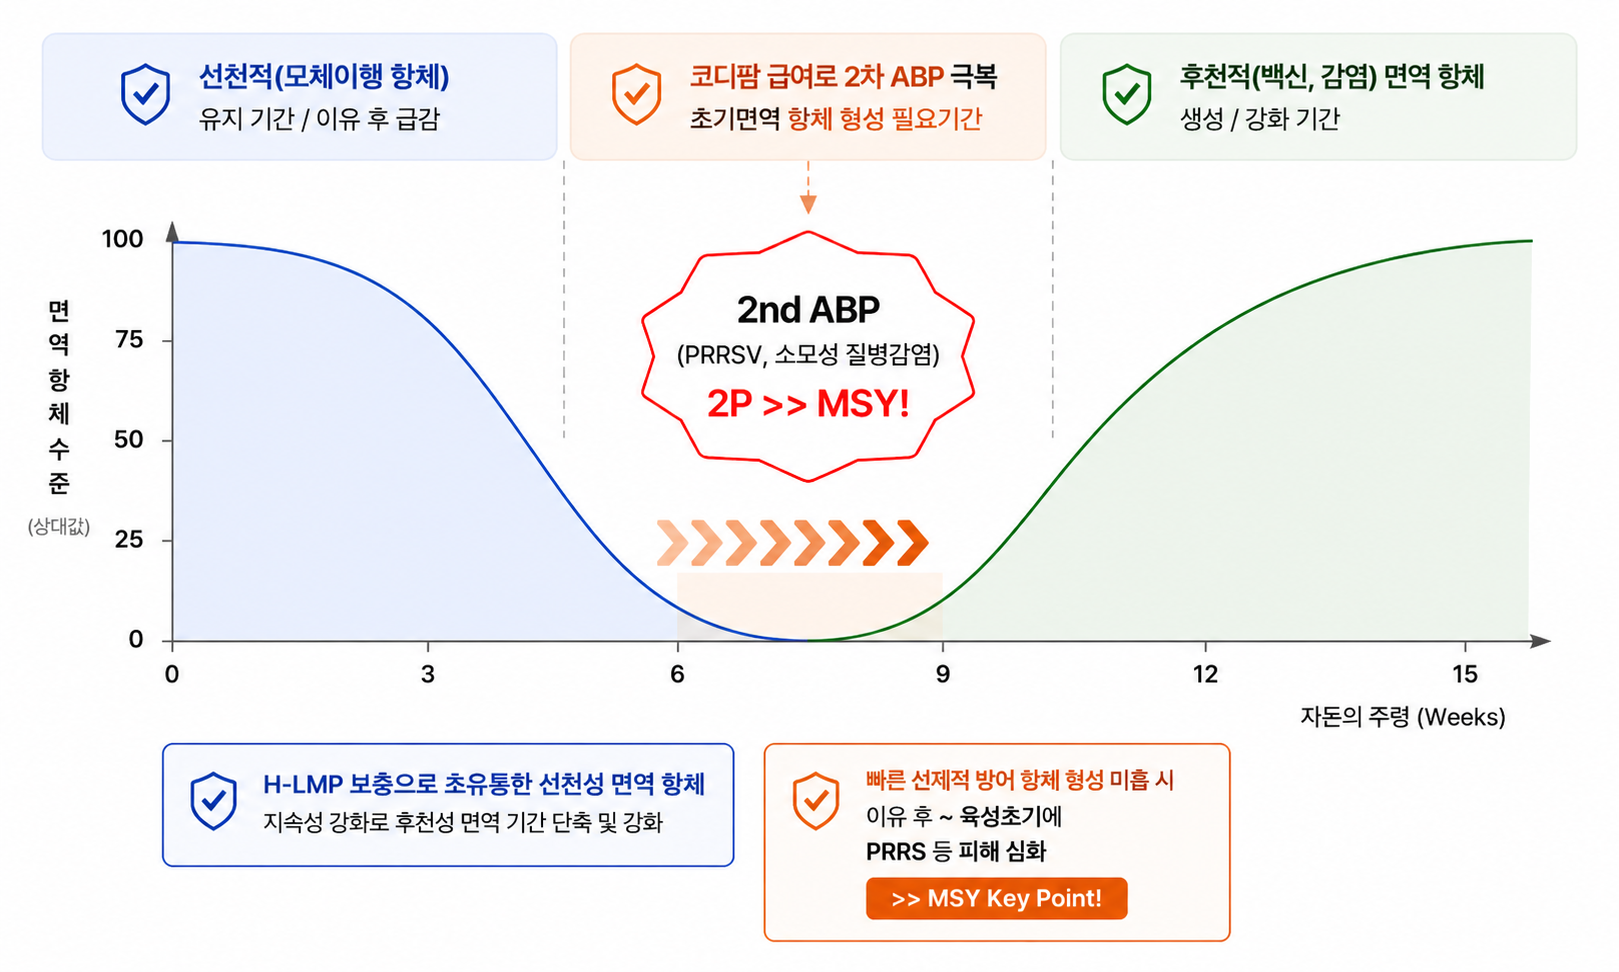
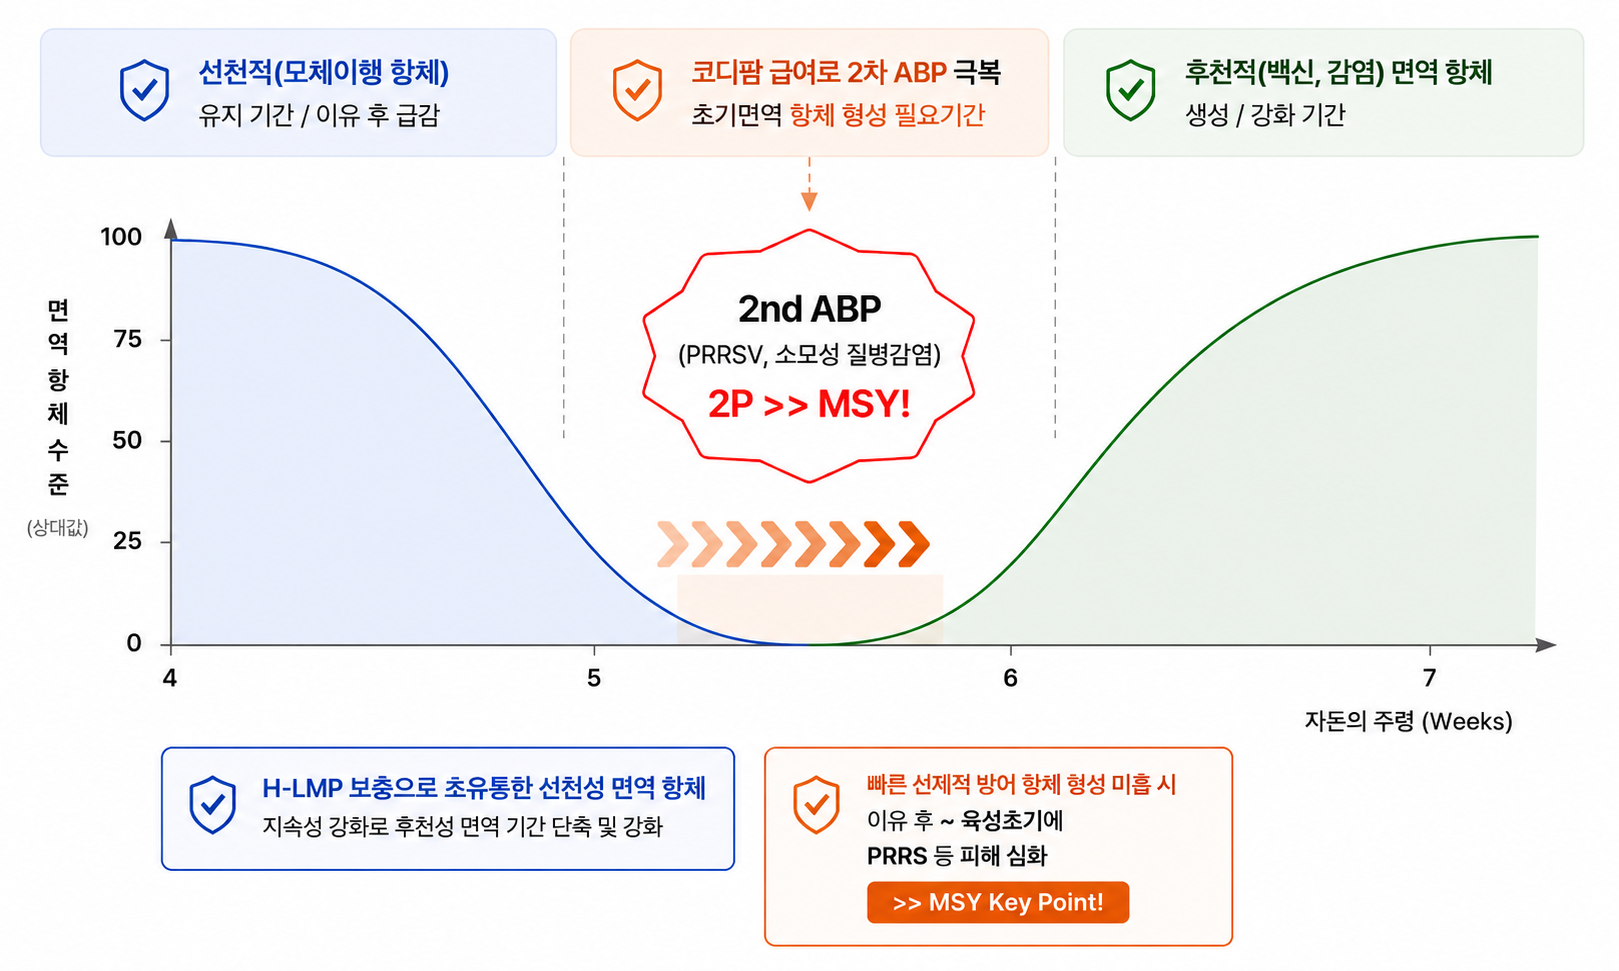
Update Amino-F recommended farms list

diff --git a/src/app/products/amino-f/page.tsx b/src/app/products/amino-f/page.tsx
@@ -115,7 +115,7 @@ export default function AminoFPage() {
             H-LMP 저분자 단백질 솔루션
           </h2>
           <p className="mt-6 text-lg leading-8 text-gray-600">
-            아미노에프는 100kDa 이상의 혈장과 혈구 유래 고분자 단백질을
+            아미노에프는 100kDa 이상의 햄철 함유 고분자 단백질을
             10kDa 이하의 저분자 펩타이드 및 아미노산화(H-LMP) 형태로 효소분해하여
             체내 흡수력 강화를 목표로 한 모돈용 H-LMP 단백질 솔루션입니다.
           </p>
@@ -158,7 +158,7 @@ export default function AminoFPage() {
               핵심기능
             </h2>
             <p className="mx-auto mt-6 max-w-4xl text-lg leading-8 text-gray-600">
-              100kDa 이상의 혈장과 혈구의 고분자 단백질을 10kDa 이하의 저분자 펩타이드 및
+              100kDa 이상의 햄철 함유 고분자 단백질을 10kDa 이하의 저분자 펩타이드 및
               아미노산화(H-LMP) 형태로 효소분해하여 체내흡수력을 강화.
             </p>
           </div>
@@ -172,7 +172,7 @@ export default function AminoFPage() {
                 고분자 단백질
               </h3>
               <p className="mt-4 leading-7 text-gray-600">
-                혈장·혈구 유래 단백질<br />100kDa 이상
+                햄철 함유 고분자 단백질<br />100kDa 이상
               </p>
             </div>
 
@@ -214,9 +214,12 @@ export default function AminoFPage() {
             </h2>
 
             <ul className="mt-8 space-y-4 text-lg leading-8 text-gray-700">
-              <li>- PED, PRRS를 예방하고자 하는 농가</li>
-              <li>- 초기 폐사율이 높은 농가</li>
-              <li>- 모돈의 수익성을 개선하고 싶은 농가</li>
+              <li>- PED, PRRS 예방 및 감염 후 빠른 회복이 필요한 농장</li>
+              <li>- 분만자돈의 초기 폐사율이 높거나 이유 후 위축과 폐사율이 높은 농장</li>
+              <li>- 고능력 모돈의 잠재능력 실현으로 PSY, MSY 개선이 필요한 농장</li>
+              <li>- 백신의 효과가 기대치 이하인 농장</li>
+              <li>- 2~3년 주기로 PED/PRRS의 피해가 반복되는 농장</li>
+              <li>- 모돈의 경제수명이 6산차 이하의 모돈군이 30% 이하인 농장</li>
             </ul>
           </div>
 
@@ -308,94 +311,6 @@ export default function AminoFPage() {
       </section>
 
       <section className="bg-white px-6 py-24">
-      <section className="bg-[#f7faf7] px-6 py-24">
-        <div className="mx-auto max-w-7xl">
-          <div className="mb-12">
-            <p className="text-sm font-black uppercase tracking-[0.3em] text-[#0b55b7]">
-              Usage Guide
-            </p>
-            <h2 className="mt-4 text-4xl font-black text-[#0f3d2e] md:text-5xl">
-              사용 방법
-            </h2>
-            <p className="mt-5 text-lg leading-8 text-gray-600">
-              Amino-F와 Codifarm의 권장 급여 방법은 아래와 같습니다.
-            </p>
-          </div>
-
-          <div className="overflow-hidden rounded-[28px] border border-gray-200 bg-white shadow-xl">
-            <div className="hidden grid-cols-[1.1fr_0.9fr_1.8fr] bg-[#0b55b7] text-white md:grid">
-              <div className="px-8 py-5 text-2xl font-black">급여대상/시기</div>
-              <div className="border-l border-white/20 px-8 py-5 text-2xl font-black">제품</div>
-              <div className="border-l border-white/20 px-8 py-5 text-2xl font-black">내용</div>
-            </div>
-
-            <div className="divide-y divide-gray-200">
-              {usageRows.map((row) => (
-                <div
-                  key={row.target}
-                  className="grid gap-0 md:grid-cols-[1.1fr_0.9fr_1.8fr]"
-                >
-                  <div className="border-b border-gray-200 bg-[#f6f9ff] px-6 py-6 md:border-b-0 md:px-8 md:py-8">
-                    <p className="text-sm font-bold uppercase tracking-[0.2em] text-[#0b55b7] md:hidden">
-                      급여대상/시기
-                    </p>
-                    <p className="mt-2 text-3xl font-black text-[#0f3d2e] md:mt-0">
-                      {row.target}
-                    </p>
-                  </div>
-
-                  <div className="border-b border-gray-200 px-6 py-6 md:border-b-0 md:border-l md:px-8 md:py-8">
-                    <p className="text-sm font-bold uppercase tracking-[0.2em] text-[#0b55b7] md:hidden">
-                      제품
-                    </p>
-                    {Array.isArray(row.product) ? (
-                      <div className="mt-2 flex flex-col gap-3 md:mt-0">
-                        {row.product.map((item) => (
-                          <span
-                            key={item}
-                            className="inline-flex w-fit rounded-full bg-[#eef5ff] px-4 py-2 text-lg font-black text-[#0b55b7]"
-                          >
-                            {item}
-                          </span>
-                        ))}
-                      </div>
-                    ) : (
-                      <div className="mt-2 md:mt-0">
-                        <span className="inline-flex rounded-full bg-[#eef5ff] px-4 py-2 text-lg font-black text-[#0b55b7]">
-                          {row.product}
-                        </span>
-                      </div>
-                    )}
-                  </div>
-
-                  <div className="px-6 py-6 md:border-l md:px-8 md:py-8">
-                    <p className="text-sm font-bold uppercase tracking-[0.2em] text-[#0b55b7] md:hidden">
-                      내용
-                    </p>
-                    <ul className="mt-2 space-y-3 md:mt-0">
-                      {row.content.map((line, index) => {
-                        const isSub = line.startsWith("(");
-                        return (
-                          <li
-                            key={`${row.target}-${index}`}
-                            className={isSub ? "pl-6 text-lg leading-8 text-gray-500" : "text-2xl font-semibold leading-9 text-gray-900"}
-                          >
-                            {isSub ? line : `• ${line}`}
-                          </li>
-                        );
-                      })}
-                    </ul>
-                  </div>
-                </div>
-              ))}
-            </div>
-          </div>
-
-          <div className="mt-6 rounded-2xl border border-[#dbeafe] bg-[#f6f9ff] px-6 py-5 text-base leading-7 text-gray-600 md:px-8">
-            <span className="font-black text-[#0b55b7]">※ 안내</span> 상기 급여량은 일반적인 권장량이며, 농장 환경 및 질병 상황에 따라 수의사와 상담 후 조절해 주세요.
-          </div>
-        </div>
-      </section>
         <div className="mx-auto max-w-7xl">
           <div className="mb-12">
             <p className="text-sm font-black uppercase tracking-[0.3em] text-[#0b55b7]">
@@ -571,6 +486,94 @@ export default function AminoFPage() {
             아미노에프는 분만 전·후 모돈의 1차 ABP 관리에 적용되어 포유자돈의 초기 면역 형성과
             PED 예방 프로그램의 기반 제품으로 활용됨.
           </p>
+        </div>
+      </section>
+      <section className="bg-[#f7faf7] px-6 py-24">
+        <div className="mx-auto max-w-7xl">
+          <div className="mb-12">
+            <p className="text-sm font-black uppercase tracking-[0.3em] text-[#0b55b7]">
+              Usage Guide
+            </p>
+            <h2 className="mt-4 text-4xl font-black text-[#0f3d2e] md:text-5xl">
+              사용 방법
+            </h2>
+            <p className="mt-5 text-lg leading-8 text-gray-600">
+              Amino-F와 Codifarm의 권장 급여 방법은 아래와 같습니다.
+            </p>
+          </div>
+
+          <div className="overflow-hidden rounded-[28px] border border-gray-200 bg-white shadow-xl">
+            <div className="hidden grid-cols-[1.1fr_0.9fr_1.8fr] bg-[#0b55b7] text-white md:grid">
+              <div className="px-8 py-5 text-2xl font-black">급여대상/시기</div>
+              <div className="border-l border-white/20 px-8 py-5 text-2xl font-black">제품</div>
+              <div className="border-l border-white/20 px-8 py-5 text-2xl font-black">내용</div>
+            </div>
+
+            <div className="divide-y divide-gray-200">
+              {usageRows.map((row) => (
+                <div
+                  key={row.target}
+                  className="grid gap-0 md:grid-cols-[1.1fr_0.9fr_1.8fr]"
+                >
+                  <div className="border-b border-gray-200 bg-[#f6f9ff] px-6 py-6 md:border-b-0 md:px-8 md:py-8">
+                    <p className="text-sm font-bold uppercase tracking-[0.2em] text-[#0b55b7] md:hidden">
+                      급여대상/시기
+                    </p>
+                    <p className="mt-2 text-3xl font-black text-[#0f3d2e] md:mt-0">
+                      {row.target}
+                    </p>
+                  </div>
+
+                  <div className="border-b border-gray-200 px-6 py-6 md:border-b-0 md:border-l md:px-8 md:py-8">
+                    <p className="text-sm font-bold uppercase tracking-[0.2em] text-[#0b55b7] md:hidden">
+                      제품
+                    </p>
+                    {Array.isArray(row.product) ? (
+                      <div className="mt-2 flex flex-col gap-3 md:mt-0">
+                        {row.product.map((item) => (
+                          <span
+                            key={item}
+                            className="inline-flex w-fit rounded-full bg-[#eef5ff] px-4 py-2 text-lg font-black text-[#0b55b7]"
+                          >
+                            {item}
+                          </span>
+                        ))}
+                      </div>
+                    ) : (
+                      <div className="mt-2 md:mt-0">
+                        <span className="inline-flex rounded-full bg-[#eef5ff] px-4 py-2 text-lg font-black text-[#0b55b7]">
+                          {row.product}
+                        </span>
+                      </div>
+                    )}
+                  </div>
+
+                  <div className="px-6 py-6 md:border-l md:px-8 md:py-8">
+                    <p className="text-sm font-bold uppercase tracking-[0.2em] text-[#0b55b7] md:hidden">
+                      내용
+                    </p>
+                    <ul className="mt-2 space-y-3 md:mt-0">
+                      {row.content.map((line, index) => {
+                        const isSub = line.startsWith("(");
+                        return (
+                          <li
+                            key={`${row.target}-${index}`}
+                            className={isSub ? "pl-6 text-lg leading-8 text-gray-500" : "text-2xl font-semibold leading-9 text-gray-900"}
+                          >
+                            {isSub ? line : `• ${line}`}
+                          </li>
+                        );
+                      })}
+                    </ul>
+                  </div>
+                </div>
+              ))}
+            </div>
+          </div>
+
+          <div className="mt-6 rounded-2xl border border-[#dbeafe] bg-[#f6f9ff] px-6 py-5 text-base leading-7 text-gray-600 md:px-8">
+            <span className="font-black text-[#0b55b7]">※ 안내</span> 상기 급여량은 일반적인 권장량이며, 농장 환경 및 질병 상황에 따라 수의사와 상담 후 조절해 주세요.
+          </div>
         </div>
       </section>
     </main>
